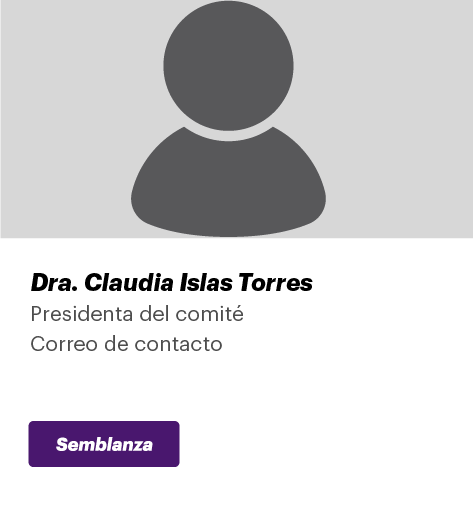
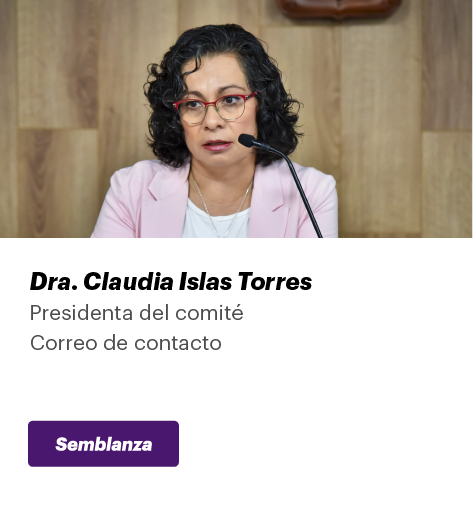
links footer CIENU, semblanzas Lilia Reyna y cambio de fotos del comite RIDMAE 19112025 10:05

diff --git a/index.html b/index.html
@@ -636,11 +636,11 @@
             <div class="row">
                 <div class="col-md-4" style="padding-bottom: 30px;">
                   <button type="button" class="btn card_btn modal-dialog-scrollable" data-bs-toggle="modal" data-bs-target="#modalCard1">
-                  <img src="files/imagenes/comite/DraClaudiaIslasTorresV2.png" class="img-fluid"  alt="Comité Académico"></button>
+                  <img src="files/imagenes/comite/DraClaudiaIslasTorres.png" class="img-fluid"  alt="Comité Académico"></button>
                 </div>
                 <div class="col-md-4" style="padding-bottom: 30px;">
                   <button type="button" class="btn card_btn modal-dialog-scrollable" data-bs-toggle="modal" data-bs-target="#modalCard2">
-                    <img src="files/imagenes/comite/DraRosanaRuizSanchezV2.png" class="img-fluid"   alt="Comité Académico">
+                    <img src="files/imagenes/comite/DraRosanaRuizSanchez.png" class="img-fluid"   alt="Comité Académico">
                   </button>
                 </div>
                 <div class="col-md-4" style="padding-bottom: 30px;">
@@ -870,7 +870,7 @@
         <button type="button" class="btn-close" data-bs-dismiss="modal" aria-label="Cerrar"></button>
       </div>
       <div class="modal-body" style="text-align: justify;">
-        <img src="files/imagenes/cards/DraClaudiaIslasTorresV2.png" class="img-fluid rounded imagen-centrada" alt="" style="width: 250px;">
+        <img src="files/imagenes/cards/DraClaudiaIslasTorres.png" class="img-fluid rounded imagen-centrada" alt="" style="width: 250px;">
         <h5 style="text-align: center;">
           Dra. Claudia Islas Torres<br>
           Presidenta del comité<br>
@@ -899,7 +899,7 @@
         <button type="button" class="btn-close" data-bs-dismiss="modal" aria-label="Cerrar"></button>
       </div>
       <div class="modal-body" style="text-align: justify;">
-        <img src="files/imagenes/cards/DraRosanaRuizSanchezV2.png" class="img-fluid rounded imagen-centrada" alt="" style="width: 250px;">
+        <img src="files/imagenes/cards/DraRosanaRuizSanchez.png" class="img-fluid rounded imagen-centrada" alt="" style="width: 250px;">
         <h5 style="text-align: center;">
           Dra. Rosana Ruiz Sánchez<br>
           Secretaria del comité<br>
@@ -948,48 +948,52 @@
 </div>
 
 <!-- Modal 4 -->
-<!--<div class="modal fade" id="modalCard4" tabindex="-1" aria-labelledby="modalCard4Label" aria-hidden="true">
+<div class="modal fade" id="modalCard4" tabindex="-1" aria-labelledby="modalCard4Label" aria-hidden="true">
   <div class="modal-dialog modal-dialog-centered modal-dialog-scrollable">
     <div class="modal-content">
       <div class="modal-header">
-        <h5 class="modal-title" id="modalCard4Label">Ponente 4 - Nombre</h5>
+        <h5 class="modal-title" id="modalCard4Label">
+          Semblanza
+        </h5>
         <button type="button" class="btn-close" data-bs-dismiss="modal" aria-label="Cerrar"></button>
       </div>
       <div class="modal-body" style="text-align: justify;">
-        <img src="files/imagenes/cards/m.png" class="img-fluid rounded imagen-centrada" alt="" style="width: 250px;">
-        <p>Lorem ipsum dolor sit amet, consectetur adipiscing elit. Cras vitae ligula at mauris suscipit sodales...</p>
-        <p>Etiam tristique, elit in blandit consectetur, magna odio interdum neque, a volutpat libero metus nec urna...</p>
-        <p>Morbi sit amet cursus neque. Vestibulum ante ipsum primis in faucibus orci luctus et ultrices posuere cubilia...</p>
-        <p>Phasellus et nisl sed mauris imperdiet pretium. Nullam vulputate magna id metus hendrerit pulvinar...</p>
-        <p>Curabitur tempus lacus ut sapien posuere, nec volutpat lorem vestibulum...</p>
-        <p>... (agrega más texto para probar el scroll interno) ...</p>
+        <img src="files/imagenes/cards/DraLiliaBenitezC.png" class="img-fluid rounded imagen-centrada" alt="" style="width: 250px;"><br><br>
+        <p>Doctora en Ciencias de la Educación por la Universidad Autónoma del Estado de Hidalgo. Profesora de Tiempo Completo en la Universidad 
+          Politécnica de Pachuca. Perfil PRODEP, Líder UBUNTU, reconocimiento SNII Nivel Candidato. Miembro de la Asociación Internacional para 
+          la Investigación de la Resiliencia, COMIE, AMEES, RIDMAE. Cuentas con publicaciones en libros, memorias en extenso, artículos y 
+          ponencias en congresos nacionales e internacionales en su LGAC: Resiliencia en la Enseñanza y Aprendizaje de las Ciencias, Educación 
+          Superior y Desarrollo Humano en Ingenierías. Directora de tesis de Licenciatura y Maestría... Instructora de talleres de Resiliencia, 
+          Sikkhona y UBUNTU.</p>
       </div>
 
     </div>
   </div>
-</div>-->
+</div>
 
 <!-- Modal 5 -->
-<!--<div class="modal fade" id="modalCard5" tabindex="-1" aria-labelledby="modalCard5Label" aria-hidden="true">
+<div class="modal fade" id="modalCard5" tabindex="-1" aria-labelledby="modalCard5Label" aria-hidden="true">
   <div class="modal-dialog modal-dialog-centered modal-dialog-scrollable">
     <div class="modal-content">
       <div class="modal-header">
-        <h5 class="modal-title" id="modalCard5Label">Ponente 5 - Nombre</h5>
+        <h5 class="modal-title" id="modalCard5Label">
+          Semblanza
+        </h5>
         <button type="button" class="btn-close" data-bs-dismiss="modal" aria-label="Cerrar"></button>
       </div>
       <div class="modal-body" style="text-align: justify;">
-        <img src="files/imagenes/cards/m.png" class="img-fluid rounded imagen-centrada" alt="" style="width: 250px;">
-        <p>Lorem ipsum dolor sit amet, consectetur adipiscing elit. Cras vitae ligula at mauris suscipit sodales...</p>
-        <p>Etiam tristique, elit in blandit consectetur, magna odio interdum neque, a volutpat libero metus nec urna...</p>
-        <p>Morbi sit amet cursus neque. Vestibulum ante ipsum primis in faucibus orci luctus et ultrices posuere cubilia...</p>
-        <p>Phasellus et nisl sed mauris imperdiet pretium. Nullam vulputate magna id metus hendrerit pulvinar...</p>
-        <p>Curabitur tempus lacus ut sapien posuere, nec volutpat lorem vestibulum...</p>
-        <p>... (agrega más texto para probar el scroll interno) ...</p>
+        <img src="files/imagenes/cards/DraReynaCMartinezR.png" class="img-fluid rounded imagen-centrada" alt="" style="width: 250px;"><br><br>
+        <p>Doctora en Ciencias de la Educación por la Universidad Autónoma del Estado de Hidalgo, profesora de tiempo completo 
+          de la Universidad Politécnica de Pachuca. Líder del CAUPP – 11 en consolidación “Estrategias de Aprendizaje y Enseñanza 
+          en EBC. Integrante de la Red de Investigadores y Docentes de México, América Latina, Andorra y España (RIDMAE), COMIE, 
+          AMEES. SU LGAC es ecosistemas del aprendizaje desde la resiliencia y la neuroeducación para el desarrollo humano saludable. 
+          Se ha desempeñado como directora y codirectora de tesis de Pregrado y Posgrado. Cuenta con el reconocimiento del SNII Nivel 
+          I. Ha publicado artículos en revistas nacionales e internacionales, capítulos de libro, libros.</p>
       </div>
 
     </div>
   </div>
-</div>-->
+</div>
 
 <!-- Modal 6 -->
 <!--<div class="modal fade" id="modalCard6" tabindex="-1" aria-labelledby="modalCard6Label" aria-hidden="true">

diff --git a/footer.html b/footer.html
@@ -10,14 +10,20 @@
                             </p>
                         </div>
                         <div class="col-md-2" style="padding-top: 5px;">
-                            <a href="" class="N1">
+                            <a href="https://www.facebook.com/profile.php?id=61583403147663" class="N1">
                                 <img src="files/imagenes/home/FB.png" class="img-fluid ICONcolorFCIENU" alt="FB">
                             </a>
-                            <a href="" class="N1">
+                            <a href="https://www.instagram.com/cienuridmae/" class="N1">
                                 <img src="files/imagenes/home/IG.png" class="img-fluid ICONcolorFCIENU" alt="IG">
                             </a>
-                            <a href="" class="N1">
+                            <a href="https://cienu.upp.edu.mx/" class="N1">
                                 <img src="files/imagenes/home/WEB.png" class="img-fluid ICONcolorFCIENU" alt="WEB">
+                            </a>
+                            <a href="https://x.com/cienu2026" class="N1">
+                                <img src="files/footer/X.png" class="img-fluid ICONcolorFCIENU" alt="X">
+                            </a>
+                            <a href="https://www.youtube.com/@CienuRidmae" class="N1">
+                                <img src="files/footer/yt4.png" class="img-fluid ICONcolorFCIENU" alt="YT">
                             </a>
                         </div>
                     </div>
